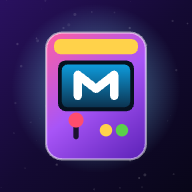
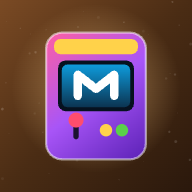
Планета игр: добавлен «Лабиринт пыльного мстителя» (15-я игра) + коричневая иконка с автоматом

diff --git a/index.html b/index.html
@@ -217,8 +217,16 @@ footer{opacity:1;color:#819baa;font-size:12px;line-height:1.9;margin-top:39px}fo
    ⚠ ПРАВИЛО МАРКА: сделали новую игру — СРАЗУ добавляем её сюда:
    запись в массив ИГРЫ + иконка и скриншоты в pwa/img/. */
 const ИГРЫ = [
+  { id:'dustmaze', имя:'Лабиринт пыльного мстителя', em:'🌫', url:'https://maksimdodychin.github.io/mark-dustmaze/',
+    метки:['vac','spooky','co'], новое:true, shots:3,
+    сюжет:'Всю пыль этого дома давно засосали. Осталась одна пылинка — Пыльный мститель. Под мебелью для неё раскинулся огромный лабиринт из пыли и крошек, а по нему ползает гигантский робот-пылесос, созданный ровно для того, чтобы её не стало.',
+    текст:'Два режима: <b>на время</b> (найди выход как можно быстрее, игра помнит твой рекорд) и <b>кусочки</b> (как в Паучьем лабиринте — сначала собери кусочки ключа, потом решётка выпустит). Три сложности: на лёгком пылесос просто убирается, на среднем <b>круглый ВИХРЬ R-9</b> гонится, но не достаёт до углов, на сложном <b>квадратный ВИХРЬ Q-7</b> выметает даже углы. Спасают <b>щели</b> (пылесос в них не пролезет), <b>убежища</b> и кнопка <b>«затаиться»</b> — стоящую пылинку он не отличает от обычной пыли. Можно играть <b>за пылесос</b>, а <b>вдвоём</b> экран делится: сверху пылинка бежит к выходу, снизу пылесос её ловит.',
+    злодеи:[
+      { em:'🤖', имя:'ВИХРЬ R-9', текст:'Круглый робот-пылесос с башенкой лидара. Увидит — погонится и начнёт засасывать. Но круглым боком до угла не достать — в углу ты в безопасности.<br><br>🛡 <b>Как с ним справиться.</b> Затаись: неподвижную пылинку он принимает за обычную пыль. И помни про щели — туда он не пролезет.' },
+      { em:'⬛', имя:'ВИХРЬ Q-7', текст:'Квадратный, с угловыми щётками. Как раз ими он выметает из углов — поэтому угол тебя больше не спасёт. Против него остаются только щели, убежища и рывок.' },
+    ] },
   { id:'ghostlife', имя:'Жизнь призрака', em:'👻', url:'https://maksimdodychin.github.io/mark-ghostlife/',
-    метки:['spooky','solo'], новое:true, shots:3,
+    метки:['spooky','solo'], новое:false, shots:3,
     сюжет:'В одном обычном доме две жизни. Днём тут живут люди, а ночью — кто-то ещё. В этой игре ты побудешь и тем, и другим: сначала ребёнком, который остался дома один в грозу, а потом тем, кого этот ребёнок боялся.',
     текст:'Два режима. <b>🏠 Я дома один</b> — дожить до утра: гром, свет гаснет сам, кто-то кричит в ванной, телевизор включается без тебя, в дверь стучат в три часа ночи, а в тёмном углу зажигаются <b>два зелёных глаза</b> и ползут к тебе — прогнать их можно только фонариком. <b>👻 Быть призраком</b> — дети сидят кружком у фонарика и рассказывают страшилки про привидений, а ты стучишь, шуршишь вещами, щекочешь, пролетаешь насквозь, дышишь холодом, гасишь свет и являешься. Попал ровно на конец страшилки — страх <b>×3</b>. Успей разогнать всех до конца ночи и не попадись в лучи их фонариков. Три ночи: во второй появляется кот, который видит тебя всегда, в третьей заходит взрослый — пока он в комнате, пугать бесполезно.',
     злодеи:[
@@ -654,6 +662,7 @@ document.getElementById('badBtn').onclick = галерея;
     { id:'party',     имя:'Вечеринка',    em:'🎉', вместе:true  },
     { id:'draw',      имя:'Рисовалка',    em:'🎨', вместе:true  },
     { id:'ghostlife', имя:'Жизнь призрака', em:'👻', вместе:false },
+    { id:'dustmaze',  имя:'Пыльный мститель', em:'🌫', вместе:false },
     { id:'phantom',   имя:'Поместье',     em:'👻', вместе:false },
     { id:'emoplanet', имя:'Эмоциональная планета', em:'🪐', вместе:false },
     { id:'technobunt',имя:'Технобунт',    em:'⏻', вместе:false },
@@ -1226,7 +1235,7 @@ document.getElementById('badBtn').onclick = галерея;
 <!-- /👥 ОНЛАЙН ПЛАНЕТЫ ИГР -->
 
 <!-- PLANETA_UPDATER_START -->
-<script>window.__APP_VER="d8a0e6135e";</script>
+<script>window.__APP_VER="1a05f663dd";</script>
 
 <script>
 /* scoped PWA updater: the installed offline copy stays until a verified replacement activates. */

diff --git a/sw.js b/sw.js
@@ -1,10 +1,10 @@
 // Scoped offline application updater; version changes with the payload and updater.
-const VERSION = 'd8a0e6135e';
+const VERSION = '1a05f663dd';
 const PREFIX = "markgames-";
 const CACHE = PREFIX + VERSION;
 const SCOPE = new URL(self.registration.scope);
 const INDEX = new URL('index.html', SCOPE).href;
-const ASSETS = ["./manifest.webmanifest","./apple-touch-icon.png","./favicon-64.png","./icon-192.png","./icon-512-maskable.png","./icon-512.png","./img/adventure-1.jpg","./img/adventure-2.jpg","./img/adventure-icon.png","./img/bitva-1.jpg","./img/bitva-2.jpg","./img/bitva-icon.png","./img/brain-1.jpg","./img/brain-icon.png","./img/draw-1.jpg","./img/draw-2.jpg","./img/draw-icon.png","./img/emoplanet-1.jpg","./img/emoplanet-2.jpg","./img/emoplanet-3.jpg","./img/emoplanet-icon.png","./img/ghostlife-1.jpg","./img/ghostlife-2.jpg","./img/ghostlife-3.jpg","./img/ghostlife-icon.png","./img/kart-1.jpg","./img/kart-2.jpg","./img/kart-3.jpg","./img/kart-icon.png","./img/matshtorm-1.jpg","./img/matshtorm-2.jpg","./img/matshtorm-3.jpg","./img/matshtorm-icon.png","./img/nightshift-1.jpg","./img/nightshift-2.jpg","./img/nightshift-3.jpg","./img/nightshift-icon.png","./img/obzhora-1.jpg","./img/obzhora-2.jpg","./img/obzhora-icon.png","./img/party-1.jpg","./img/party-2.jpg","./img/party-icon.png","./img/phantom-1.jpg","./img/phantom-2.jpg","./img/phantom-icon.png","./img/spider-1.jpg","./img/spider-2.jpg","./img/spider-icon.png","./img/technobunt-1.jpg","./img/technobunt-2.jpg","./img/technobunt-3.jpg","./img/technobunt-icon.png"];
+const ASSETS = ["./manifest.webmanifest","./apple-touch-icon.png","./favicon-64.png","./icon-192.png","./icon-512-maskable.png","./icon-512.png","./img/adventure-1.jpg","./img/adventure-2.jpg","./img/adventure-icon.png","./img/bitva-1.jpg","./img/bitva-2.jpg","./img/bitva-icon.png","./img/brain-1.jpg","./img/brain-icon.png","./img/draw-1.jpg","./img/draw-2.jpg","./img/draw-icon.png","./img/dustmaze-1.jpg","./img/dustmaze-2.jpg","./img/dustmaze-3.jpg","./img/dustmaze-icon.png","./img/emoplanet-1.jpg","./img/emoplanet-2.jpg","./img/emoplanet-3.jpg","./img/emoplanet-icon.png","./img/ghostlife-1.jpg","./img/ghostlife-2.jpg","./img/ghostlife-3.jpg","./img/ghostlife-icon.png","./img/kart-1.jpg","./img/kart-2.jpg","./img/kart-3.jpg","./img/kart-icon.png","./img/matshtorm-1.jpg","./img/matshtorm-2.jpg","./img/matshtorm-3.jpg","./img/matshtorm-icon.png","./img/nightshift-1.jpg","./img/nightshift-2.jpg","./img/nightshift-3.jpg","./img/nightshift-icon.png","./img/obzhora-1.jpg","./img/obzhora-2.jpg","./img/obzhora-icon.png","./img/party-1.jpg","./img/party-2.jpg","./img/party-icon.png","./img/phantom-1.jpg","./img/phantom-2.jpg","./img/phantom-icon.png","./img/spider-1.jpg","./img/spider-2.jpg","./img/spider-icon.png","./img/technobunt-1.jpg","./img/technobunt-2.jpg","./img/technobunt-3.jpg","./img/technobunt-icon.png"];
 const belongs = url => url.origin === SCOPE.origin && url.pathname.startsWith(SCOPE.pathname);
 self.addEventListener('install', event => {
   event.waitUntil((async () => {
